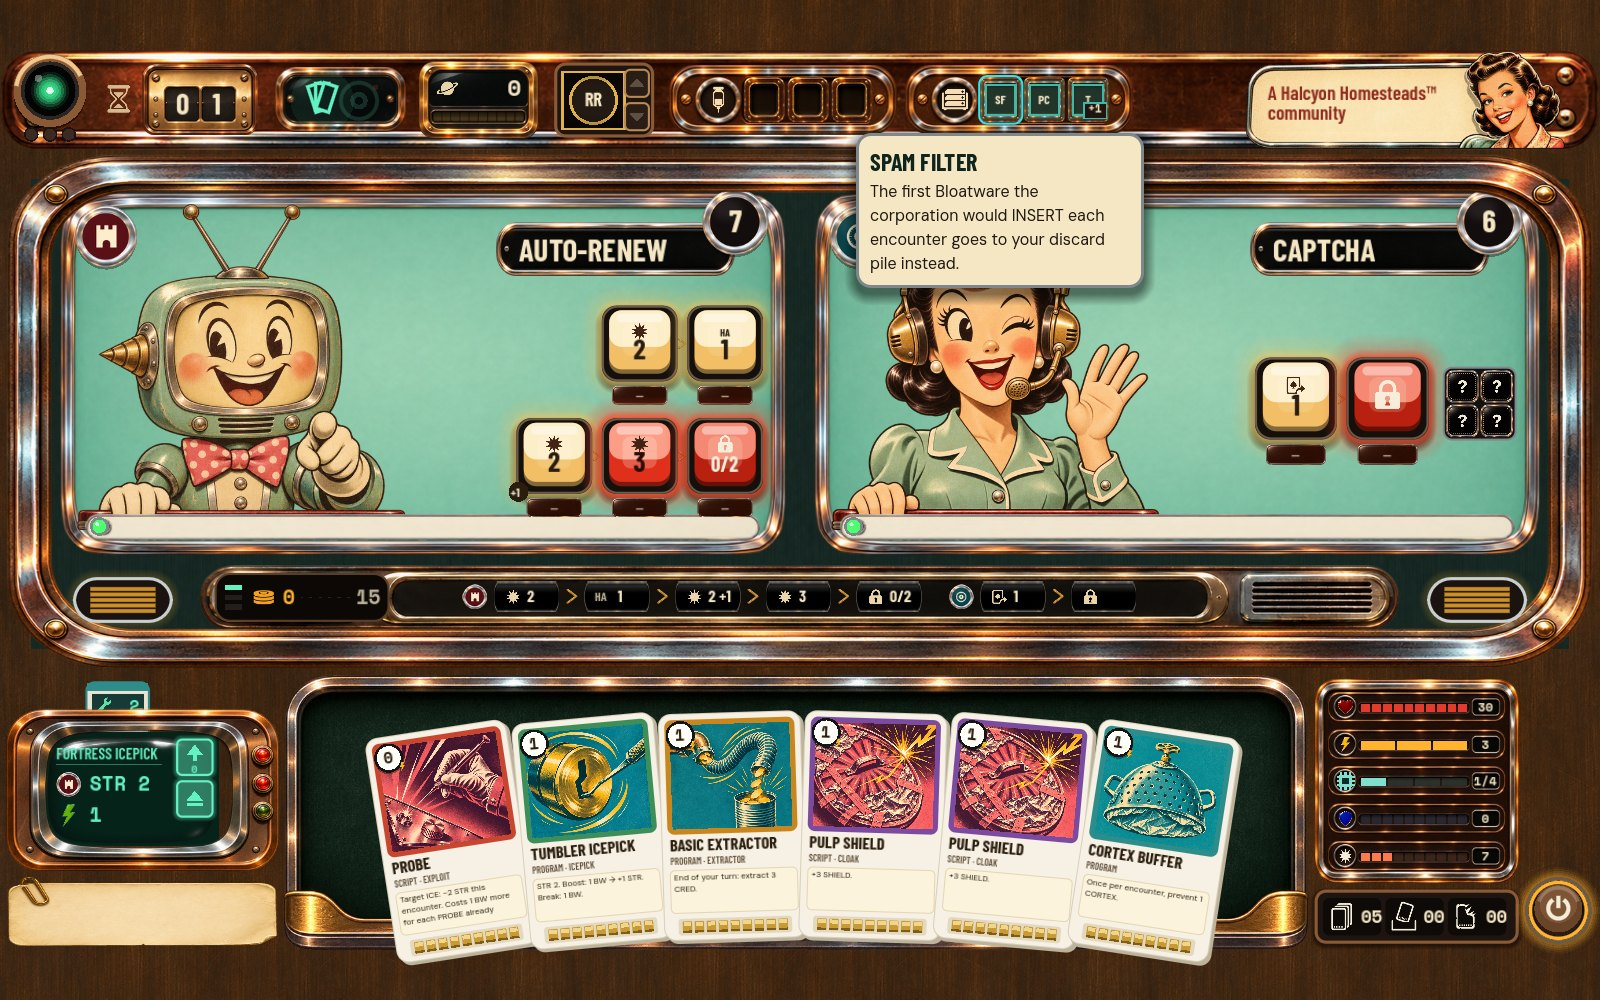
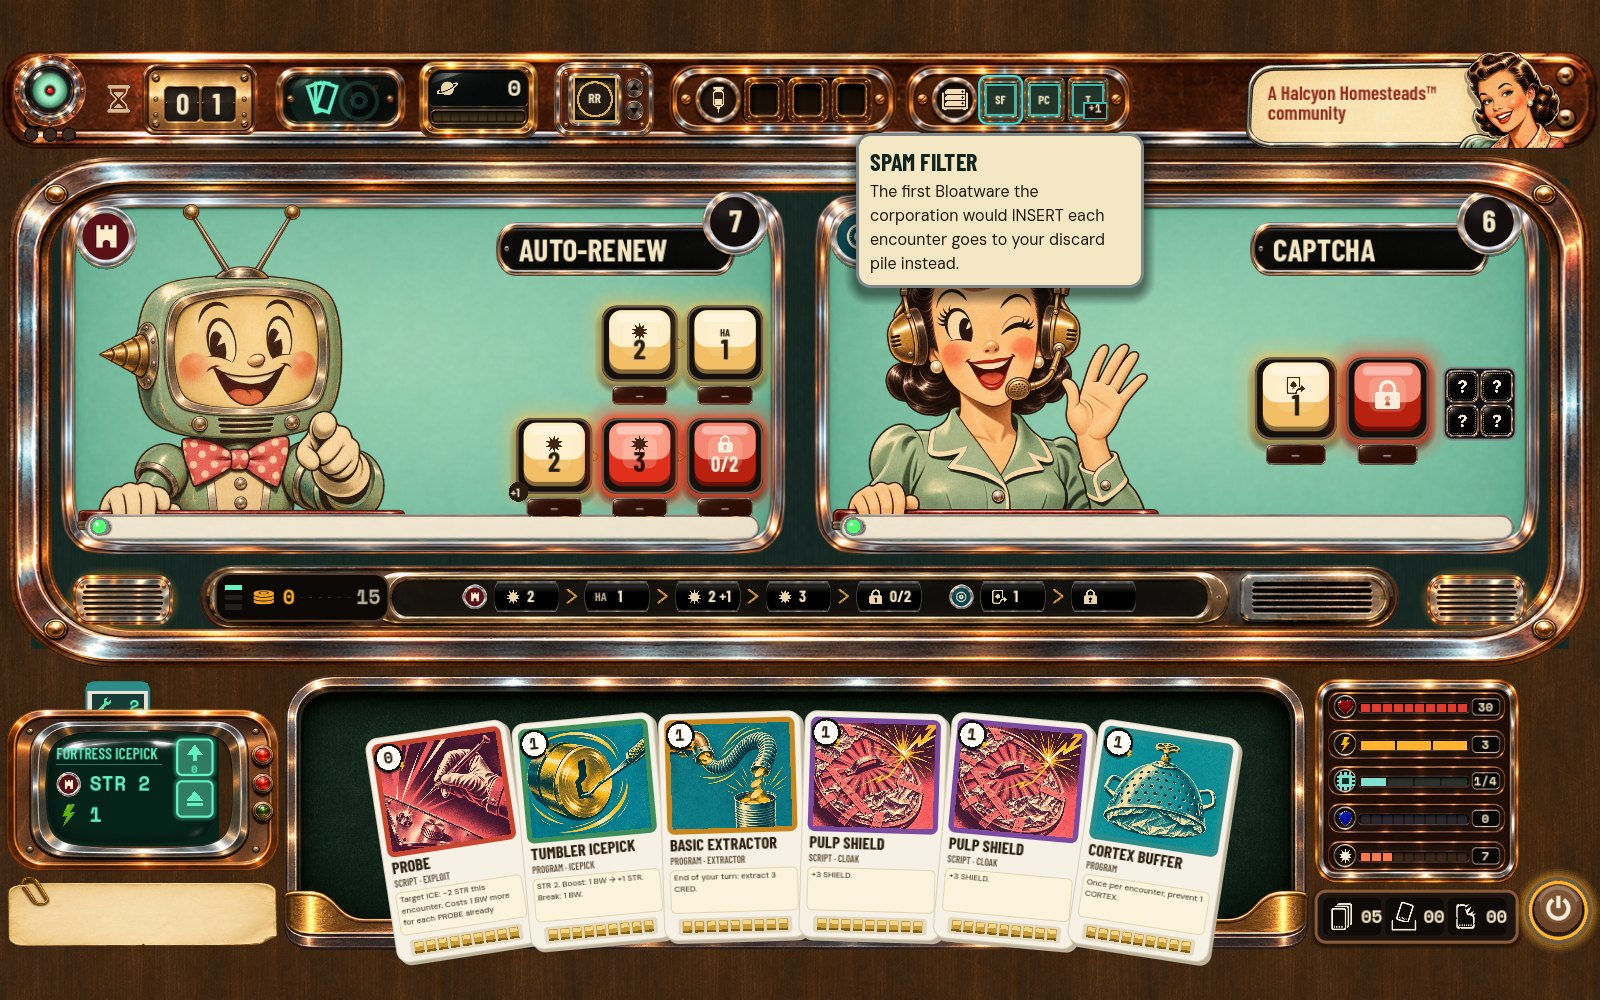
ARCH-V2-006m: eye, Ghostware reel and speaker grille art wired; pulsing red pupil
Claude-Session: https://claude.ai/code/session_019hKEHu4UdPqY8EmrmFPKzG

diff --git a/docs/HANDOFF.md b/docs/HANDOFF.md
@@ -46,7 +46,7 @@ This is the one list of work that has been **decided but not finished**, so Code
 | VAS-ASSET-001: painted asset spec for the VAS-001 screen (ChatGPT prompts, sizes, nine-slice margins, engine/existing-art tracks) | Claude Code → designer (ChatGPT) | **PROPOSED**: [`architecture-v2/VAS-001_ASSET_SPEC.md`](architecture-v2/VAS-001_ASSET_SPEC.md). Designer runs the three ChatGPT conversations (§6); Claude Code wires delivered PNGs. LAYER/EXTRACT header content still open |
 | ARCH-V2-004 Batch 2: HuCard CardView (C11), hand of cards (C10), ICE targeting, ChoiceOverlay (C15), card hover inspector | Claude Code | **BUILT, PROPOSED for visual review**: captures `docs/visual/fixtures/arch-v2-batch2/`. *Interpretations to confirm:* type colours (EXPLOIT red, CLOAK violet, ICEPICK green, EXTRACTOR gold, VIRUS olive, HARDWARE steel); rules field shows three lines, full text on hover; targeting by clicking the ICE panel (✕/Esc/second click cancels); choice wording reused from the prototype overlays; only the ten starter cards have art in the repo so far (93 more in the designer's folder) |
 | ARCH-V2-005 before Batch 3: coverage table (`docs/architecture-v2/ENCOUNTER_COVERAGE.md`), `test_arch_v2_coverage.gd`, half-width turn indicator and TRACE meter, CAPS and PROTOCOLS header racks (3 slots each) | Claude Code | **BUILT, PROPOSED for visual review**: captures `docs/visual/fixtures/arch-v2-batch2/v2_18`–`v2_20`. Art: the seven §6e parts delivered and wired (ARCH-V2-005d; slots about 37 × 41 px, to confirm). Gaps for Batch 3 listed in the coverage table |
-| ARCH-V2-006 Batch 3: eye/alarm/strike lamps and KEY LEGEND, Ghostware reel, rail ledger with extraction ants, log from the rail, parting shot, event flyouts incl. LOCKDOWN, virus chips, break feedback, drag to play, CACHED icon, SHOW BOARD, pile viewers, NEXT DRAW, NUL/REM speakers and mute, ResponseSequencer (C03) | Claude Code | **BUILT**; interpretations approved 2026-11-26 20:35 (ARCH-V2-006j; TRACE STRIKE banner removed); targeting arrow for targeted cards (006k, approved 20:45); PROGRAMs install by dragging onto the CRT, unplayable cards dim (006l); captures `docs/visual/fixtures/arch-v2-batch3/`. Art for the eye, reel and grilles: Designer (ChatGPT, VAS-ASSET-001 §6f). PATIENT ZERO overlay still open |
+| ARCH-V2-006 Batch 3: eye/alarm/strike lamps and KEY LEGEND, Ghostware reel, rail ledger with extraction ants, log from the rail, parting shot, event flyouts incl. LOCKDOWN, virus chips, break feedback, drag to play, CACHED icon, SHOW BOARD, pile viewers, NEXT DRAW, NUL/REM speakers and mute, ResponseSequencer (C03) | Claude Code | **BUILT**; interpretations approved 2026-11-26 20:35 (ARCH-V2-006j; TRACE STRIKE banner removed); targeting arrow for targeted cards (006k, approved 20:45); PROGRAMs install by dragging onto the CRT, unplayable cards dim (006l); captures `docs/visual/fixtures/arch-v2-batch3/`. Art for the eye, reel and grilles delivered and wired 2026-11-26 (006m; red pupil pulses). PATIENT ZERO overlay still open |
 | ARCH-V2-003w: CRT program actions (BOOST, UNINSTALL, EJECT); optional row-return arrow mock | Claude Code | **BUILT, PROPOSED for visual review**: `v2_crt_program_actions_2x.jpg`, `v2_15_row_return_arrow_option.jpg`. *Interpretations to confirm:* action keys are drawn glyphs (▲ boost with BW cost, card-out uninstall, ⏏ eject) about 36 px; arrow off unless the designer wants it |
 | ARCH-V2-003u/v: 12-card fan; horizontal counters under the meters; HuCard cartridges in the CRT rig (click = show + active); subroutine keys right-aligned, two rows past four | Claude Code | **BUILT, PROPOSED for visual review**: captures `docs/visual/fixtures/arch-v2-composition/` (`v2_14_twelve_card_hand.jpg` new). *Interpretations to confirm:* cartridge click = active program for key clicks; CRT shows name, ICE type, STR, BW break cost (rule on hover); six keys split 3 + 3; no chevron between the rows |
 | ARCH-V2-003s/t: full-width ICE enclosure; CRT (rig) + effects note lower left; meters right of the hand; END TURN a small brown power button bottom right; ADP-2b hesitation speech | Claude Code | **BUILT, PROPOSED for visual review**: captures `docs/visual/fixtures/arch-v2-composition/`. *Interpretations to confirm:* the rig chips moved to the remaining CRT (the phosphor trace is dropped); END TURN drawn as a power button rather than a C64 return key; hesitation bubble 2 s; the side pipe removed |

diff --git a/docs/REDLINE_MASTER_DESIGN.md b/docs/REDLINE_MASTER_DESIGN.md
@@ -3399,4 +3399,5 @@ Built on the V2 encounter screen, in five commits (see the development log). Eve
 - **(j) Batch 3 review (designer, 2026-11-26 20:35):** "for banner wording: Remove trace strike keep the rest with typographical rules … the rest is all good". No TRACE STRIKE banner (the first strike shows on the eye's lamps, with the red wash and NUL/REM). **APPROVED:** the banner wording MASK OFF, LOCKDOWN, DEADLOCK BREACHED, LETHAL, PARTING SHOT, RESERVE EXTRACTED, under the UI-TYPO-001 typography rules; and the other Batch 3 interpretations (KEY LEGEND wording, the response waiting for banners, the deck viewer sorted by name, click-to-mute on the grilles, reduced motion set from the app settings).
 - **(k) Targeting arrow (designer, 2026-11-26 20:37: "instead of clicking an ice, make the user click and hold the card, and drag an arrow to ice like this example"):** a targeted card (e.g. PROBE) is aimed, not dragged: press and hold it and a curved arrow runs from the card to the pointer; the ICE light up and the one under the pointer is ringed; release over an ICE plays the card on it (one controller call); release elsewhere cancels; right-click or Esc cancels. **APPROVED (designer, 2026-11-26 20:45: "those 2 choices are good"):** a plain click on the card keeps the arrow up until the next click (on an ICE: play; elsewhere: cancel); keyboard play keeps the CHOOSE AN ICE plaque. Capture `docs/visual/fixtures/arch-v2-batch3/v2_29_targeting_arrow.jpg`.
 - **(l) Installing programs and lit cards (designer, 2026-11-26 20:47: "I prefer the way you describe it. Also, for each rustler turn, cards that the player CAN play in that turn should be lit normally. When they cannot play a card any longer the card dims to indicate it cannot be played (for whatever reason. i.e. not enough BW)"):** a PROGRAM installs by dragging it onto the CRT: while it is dragged the CRT glows phosphor with a slot arrow above it, brighter when the pointer is over it; let go there to install; let go anywhere else and it returns to the hand. Clicking a PROGRAM still installs it (shortcut, as proposed). Cards the Rustler can play right now are lit normally; any card that can't be played now (not enough BW or RAM, wrong phase, during the Corporation Response...) dims, rechecked after every action; the reason is on hover.
+- **(m) Eye, reel and grille art delivered; red pupil (designer, 2026-11-26 21:17: "with regard to the V2_EYE file, if there is not going to be a pulsing red dot in the center of the eye, please place one there"):** the three §6f parts are in the art folders and wired. The eye's pupil carries a red dot drawn by the game that always pulses slowly (faster as the hostile reveal grows; steady under reduced motion); the white iris is tinted green → red around it.
 

diff --git a/godot/assets/architecture_v2/MANIFEST.md b/godot/assets/architecture_v2/MANIFEST.md
@@ -47,7 +47,10 @@ Parts for the VAS-001 encounter screen, per [`docs/architecture-v2/VAS-001_ASSET
 | `controls/V2_PROTOCOL_SOCKET.png` | 1154 × 1266 | — | ChatGPT (§6e-5), trimmed | 39da937ab3bc | PROPOSED |
 | `icons/V2_ICON_CAPS_LIGHT.png` | 256 × 256 | — | ChatGPT (§6e-6), trimmed, squared and downscaled | af418f9191ce | PROPOSED |
 | `icons/V2_ICON_PROTOCOL_LIGHT.png` | 256 × 256 | — | ChatGPT (§6e-7), trimmed, squared and downscaled | 29551c4ab274 | PROPOSED |
-Conversation 1 (§6b) complete. Conversation 2 (§6c) complete (13 parts). Conversation 3 (§6d) complete. All three conversations done; conversation 4 (§6e, header slots) delivered 2026-11-26; parts dropped in favour of engine states or icon-first design are noted in the spec.
+| `chassis/V2_EYE.png` | 1200 × 1202 | — | ChatGPT (§6f-1), trimmed; white iris tinted green → red by the game; red pupil dot drawn by the game, pulsing (designer 2026-11-26 21:17) | eed34985167a | PROPOSED |
+| `controls/V2_GHOST_REEL.png` | 1394 × 1032 | — | ChatGPT (§6f-2), trimmed; window x 20–62% y 20–79%, arrow buttons x 70–88% | 2a05616c9963 | PROPOSED |
+| `controls/V2_SPEAKER_GRILLE.png` | 1736 × 840 | — | ChatGPT (§6f-3), trimmed; used twice | cf390da64e0d | PROPOSED |
+Conversation 1 (§6b) complete. Conversation 2 (§6c) complete (13 parts). Conversation 3 (§6d) complete. All three conversations done; conversation 4 (§6e, header slots; §6f, eye, reel, grille) delivered 2026-11-26; parts dropped in favour of engine states or icon-first design are noted in the spec.
 
 ## Revised ICE avatars (ARCH-V2-003p, 2026-11-26)
 

diff --git a/docs/REDLINE_DEVELOPMENT_LOG.md b/docs/REDLINE_DEVELOPMENT_LOG.md
@@ -394,3 +394,7 @@ Designer (20:37): aim targeted cards with an arrow instead of clicking an ICE. B
 
 Designer (20:47). Built `HudWidgets.CrtDropGlow` and the CRT drop rule (PROGRAMs install only when dropped on the CRT; click still installs); unplayable cards dim more (55 percent), driven by `Game.can_play` after every action. Commit `6f7f208`. Tests: `test_arch_v2_batch3.gd` 110/0; screenshots 38. No rules change. (LOG-001: moved "2026-11-22 — PROBE-004: PROBE choose-one (Claude)" to the archive.)
 
+## 2026-11-26 — ARCH-V2-006m: eye, Ghostware reel and speaker grille art wired; red pupil (Claude Code)
+
+Designer uploaded the three §6f parts. Trimmed, added with manifest rows, wired (eye iris tinted as a ring, pulsing red pupil dot; reel window and arrows on the painted buttons; grilles 96 × 48). Tests: `test_arch_v2_batch3.gd` 110/0, `test_arch_v2_ice.gd` 201/0, `test_arch_v2_coverage.gd` 538/0; screenshots 38. No rules change.
+
